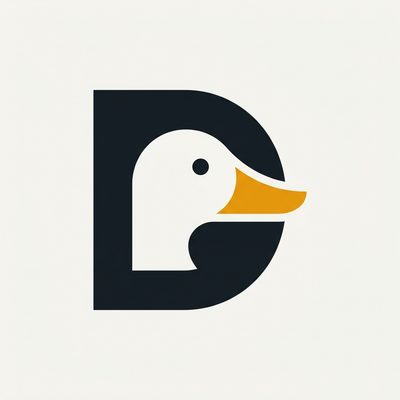
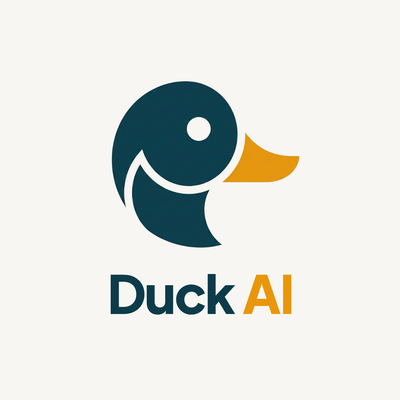
feat(brand): sistema visual 3 niveis (Padrao, Expandido, PRO) + Estatistica · IA · Open Code

Changed region(s): [[0.21, 0.18, 0.78, 0.81]]

diff --git a/src/consts.ts b/src/consts.ts
@@ -1,7 +1,7 @@
 export const SITE_TITLE = 'Duck AI';
-export const SITE_TAGLINE = 'Modelagem estatística, dados públicos e IA aplicada a produtos reais.';
+export const SITE_TAGLINE = 'Estatística, IA e Open Code aplicados a produtos reais.';
 export const SITE_DESCRIPTION =
-	'Bastidores técnicos, probabilidades no futebol (Ainda Dá), dados abertos eleitorais (Radar Eleitoral) e engenharia de produtos com IA por Vítor Pereira.';
+	'Estatística, IA e Open Code na prática: bastidores de engenharia, probabilidades no futebol (Ainda Dá) e modelagem eleitoral (Radar Eleitoral) por Vítor Pereira.';
 export const AUTHOR_NAME = 'Vítor Pereira';
 export const BRAND_HANDLE_LABEL = 'Vítor Pereira | Duck AI';
 export const X_PROFILE_URL = 'https://x.com/'; // Atualize com seu @ assim que criar o perfil
@@ -28,12 +28,12 @@ export const PHASE1_PROJECTS: Record<ProjectKey, ProjectMeta> = {
 		id: 'blog-central',
 		name: 'Duck AI — Blog Central',
 		shortLabel: 'Duck AI',
-		tagline: 'Engenharia, agentes de IA e build in public',
+		tagline: 'Estatística, IA e Open Code em público',
 		description:
 			'Bastidores técnicos de arquitetura, automação de baixo custo e experimentos de monetização de produtos digitais.',
 		url: '/blog',
 		status: 'Hub Editorial',
-		focus: 'Arquitetura & Build in Public',
+		focus: 'IA & Open Code',
 	},
 	'ainda-da': {
 		id: 'ainda-da',
@@ -50,12 +50,12 @@ export const PHASE1_PROJECTS: Record<ProjectKey, ProjectMeta> = {
 		id: 'radar-eleitoral',
 		name: 'Radar Eleitoral',
 		shortLabel: 'Radar Eleitoral',
-		tagline: 'Modelagem e transparência em dados eleitorais',
+		tagline: 'Modelagem estatística e transparência eleitoral',
 		description:
-			'Análise neutra, metodológica e verificável construída sobre bases oficiais do TSE e do IBGE.',
+			'Análise neutra, metodológica e verificável construída sobre séries históricas e bases oficiais do TSE e do IBGE.',
 		url: 'https://radar-eleitoral-web-one.vercel.app/',
 		status: 'Ativo · Fase 1',
-		focus: 'Dados Públicos & TSE',
+		focus: 'Estatística & Modelagem',
 	},
 };
 

diff --git a/README.md b/README.md
@@ -10,12 +10,13 @@ Blog editorial da marca **Vítor Pereira | Duck AI**, construído em **Astro + M
    - **Node.js version:** `22`
 3. Depois de ativar o domínio próprio (ou o subdomínio `.pages.dev`), atualize `site` em `astro.config.mjs` e `site_url` em `cerebro-operacao/config/projects/blog-central.json`.
 
-## Identidade Visual & Assets Prontos (`public/brand/`)
-- `public/brand/logo-duck-ai.png` — Vencedor da auditoria visual (**Monograma Editorial "D"**, 92/100)
-- `public/brand/avatar-x-400x400.png` — Pronto para upload como foto de perfil no X (`Vítor Pereira | Duck AI`)
-- `public/brand/banner-x-1500x500.png` — Recorte exato 3:1 (1500×500px) pronto para capa do X
-- `public/brand/og-default.jpg` — Open Graph padrão (1200×630px)
-- `public/brand/opcoes/` — Todas as 5 opções `v2` auditadas caso queira trocar o logo depois (basta sobrescrever `logo-duck-ai.png` e `avatar-x-400x400.png`)
+## Identidade Visual em 3 Níveis (`public/brand/`)
+- **Uso Comum / Principal:** `public/brand/logo-duck-ai.png` (ícone puro para cabeçalho/favicon) + `public/brand/logo-duck-ai-padrao.png` e `public/brand/avatar-x-400x400.png` (ícone + wordmark **Duck AI** para avatar do X)
+- **Versão Expandida (Horizontal):** `public/brand/logo-duck-ai-expandido.png` (pato Curva de Probabilidade + `Duck AI · ESTATÍSTICA · IA · OPEN CODE`)
+- **Versão Tunada / PRO:** `public/brand/logo-duck-ai-pro.png` (pato geométrico facetado sobre petróleo escuro + badge **Duck AI PRO**)
+- **Banner do X (`1500×500px` exato):** `public/brand/banner-x-1500x500.png` (`Duck AI · Estatística · IA · Open Code`)
+- **Card Open Graph (`1200×630px`):** `public/brand/og-default.jpg`
+- **Backup das 5 opções originais:** `public/brand/opcoes/`
 
 ## Contrato de Publicação para o Agente 2 (Editor)
 - Todo novo artigo deve ser gravado em `src/content/blog/<slug>.mdx` via Pull Request (nunca direto na `main`).
